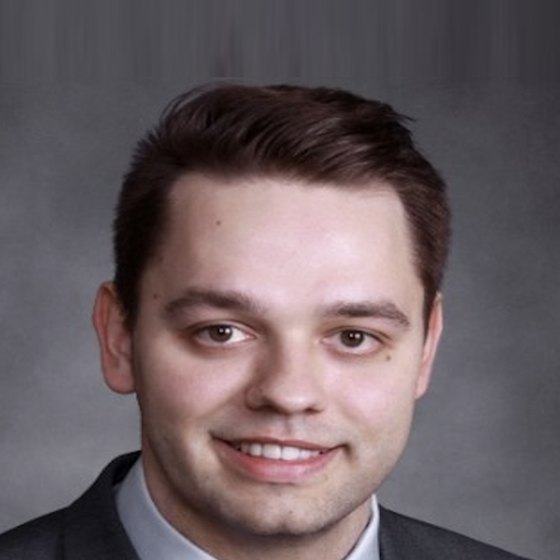
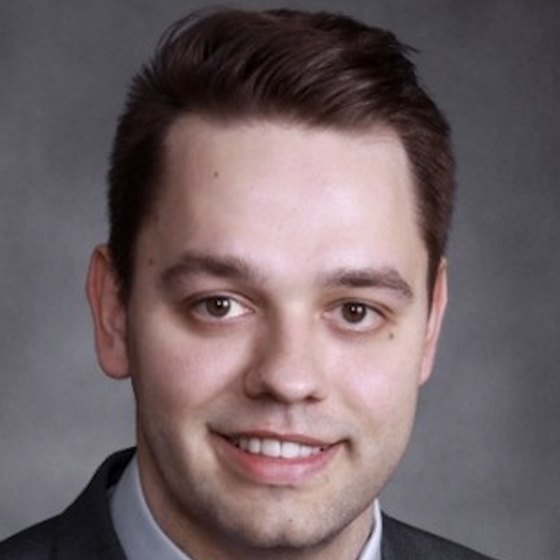
Restore the earlier photo crop, add Voices.com to the company strip

diff --git a/index.html b/index.html
@@ -58,7 +58,7 @@
 
       <div class="card span-12 companies rise d2">
         <h3>Where I've worked</h3>
-        <div class="logos"><span>AgencyAnalytics</span><span>CoreLogic</span><span>Vault Credit</span><span>Opal Balance</span><span>Uber Eats</span></div>
+        <div class="logos"><span>AgencyAnalytics</span><span>CoreLogic</span><span>Voices.com</span><span>Vault Credit</span><span>Opal Balance</span><span>Uber Eats</span></div>
       </div>
     </section>
 
